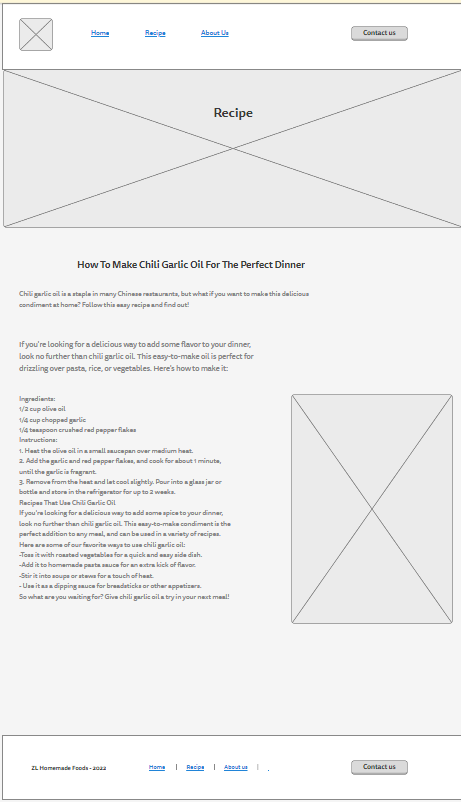
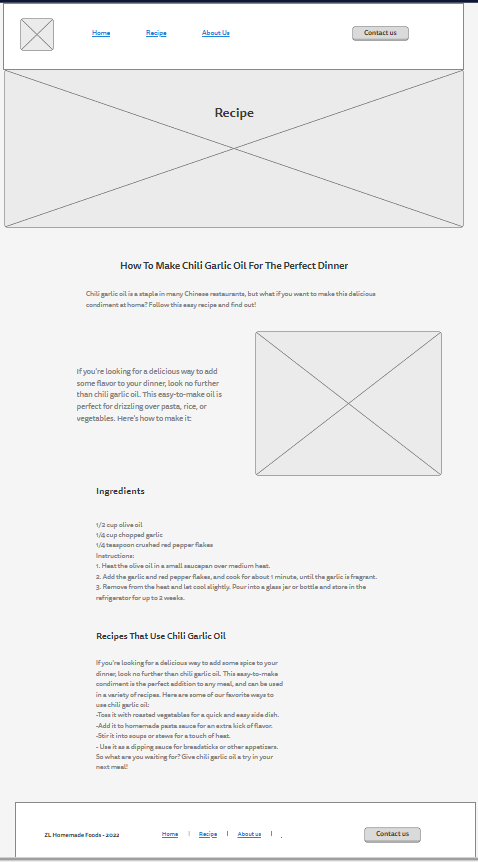
added recipe page

diff --git a/zlchiligarlicoil/recipe.html b/zlchiligarlicoil/recipe.html
@@ -1,0 +1,92 @@
+<!DOCTYPE html>
+<html lang="en">
+<head>
+    <meta charset="UTF-8">
+    <meta http-equiv="X-UA-Compatible" content="IE=edge">
+    <meta name="viewport" content="width=device-width, initial-scale=1.0">
+    <title>ZL Chili Garlic | Home</title>
+</head>
+<body>
+    <header>
+        <a id="logo-link" href="index.html">
+            <img class="logo" src="images/300x300 ZL_logo_final.png" alt="ZL chili Logo">
+        </a>
+        <nav>
+            <a href="index.html">Home</a>
+            <a href="recipe.html">Recipe</a>
+            <a href="#">About Us</a>
+            <a href="site-plan.html">Site Plan</a>
+        </nav>
+        <div class="button-box">
+            <a href="#">Contact Us</a>
+        </div>
+    </header>
+    <div id="hero">
+        <div id="hero-img">
+            <img src="images/ZL Chili Garlic Oil.png" alt="Hero image">
+        </div>
+        <section>
+            <h1 class="recipe-title">Recipe</h1>
+        </section>
+    </div>
+    <main class="recipe-grid">
+        <div>
+            <h2 class="home-headline">How To Make Chili Garlic Oil For The Perfect Dinner</h2>
+            <p>Chili garlic oil is a staple in many Chinese restaurants, 
+                but what if you want to make this delicious condiment at home? 
+                Follow this easy recipe and find out!</p>
+        </div>
+        <div class="intro-description">
+            <p>If you're looking for a delicious way to add some flavor to your dinner, 
+                look no further than chili garlic oil. This easy-to-make oil is perfect 
+                for drizzling over pasta, rice, or vegetables. Here's how to make it:</p>
+            <img src="images/chili garlic  oil image 1.png" alt="Chili with garlic image">
+        </div>
+        <div class="ingredients">
+            <h2>Ingredients:</h2> 
+            <ul>
+                <li>1/2 cup olive oil</li>
+
+                <li>1/4 cup chopped garlic</li>
+
+                <li>1/4 teaspoon crushed red pepper flakes</li>
+            </ul>
+        </div>
+        <div class="instructions">
+            <h3>Instructions:</h3>
+            <ol>
+                <li>Heat the olive oil in a small saucepan over medium heat.</li>
+
+                <li>Add the garlic and red pepper flakes, and cook for about 1 minute, until the garlic is fragrant.</li>
+
+                <li>Remove from the heat and let cool slightly. Pour into a glass jar or bottle and store in the refrigerator for up to 2 weeks.</li>
+            </ol>
+        </div>
+        <div class="recipe-chili-garlic">
+            <h3>Recipes That Use Chili Garlic Oil</h3>
+
+            <p>If you're looking for a delicious way to add some spice to your dinner, look no further than chili garlic oil. 
+            This easy-to-make condiment is the perfect addition to any meal, and can be used in a variety of recipes. 
+            Here are some of our favorite ways to use chili garlic oil:</p>
+            <ul>
+                <li>Toss it with roasted vegetables for a quick and easy side dish.</li>
+                <li>Add it to homemade pasta sauce for an extra kick of flavor.</li>
+                <li>Stir it into soups or stews for a touch of heat.</li>
+                <li>Use it as a dipping sauce for breadsticks or other appetizers.</li>
+            </ul>
+        </div>
+
+            <p>So what are you waiting for? Give chili garlic oil a try in your next meal!</p>
+    </main>    
+    <footer>
+        <p>ZL Homemade Foods &copy; 2022 - Jayvee Galosmo</p>
+        <p><a href="index.html">Home</a></p>
+        <p><a href="recipe.html">Recipe</a></p>
+        <p><a href="#">About Us</a></p>
+        <p><a href="site-plan.html">Site Plan</a></p>
+        <div class="button-box">
+            <a href="#">Contact Us</a>
+        </div>
+    </footer>
+</body>
+</html>

diff --git a/zlchiligarlicoil/index.html b/zlchiligarlicoil/index.html
@@ -13,7 +13,7 @@
         </a>
         <nav>
             <a href="index.html">Home</a>
-            <a href="#">Recipe</a>
+            <a href="recipe.html">Recipe</a>
             <a href="#">About Us</a>
             <a href="site-plan.html">Site Plan</a>
         </nav>
@@ -57,7 +57,7 @@
     <footer>
         <p>ZL Homemade Foods &copy; 2022 - Jayvee Galosmo</p>
         <p><a href="index.html">Home</a></p>
-        <p><a href="#">Recipe</a></p>
+        <p><a href="recipe.html">Recipe</a></p>
         <p><a href="#">About Us</a></p>
         <p><a href="site-plan.html">Site Plan</a></p>
         <div class="button-box">
